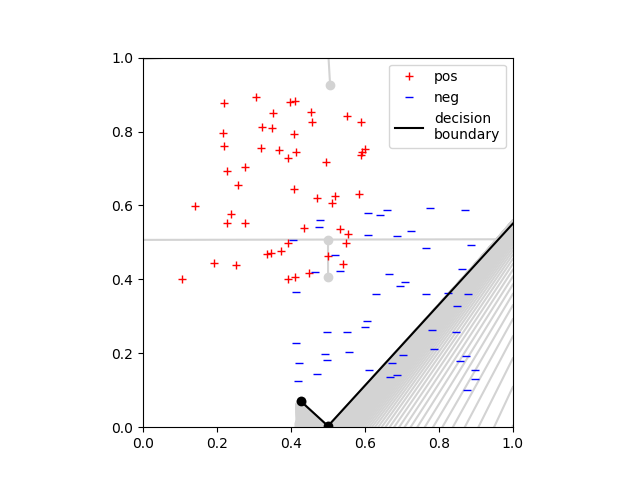
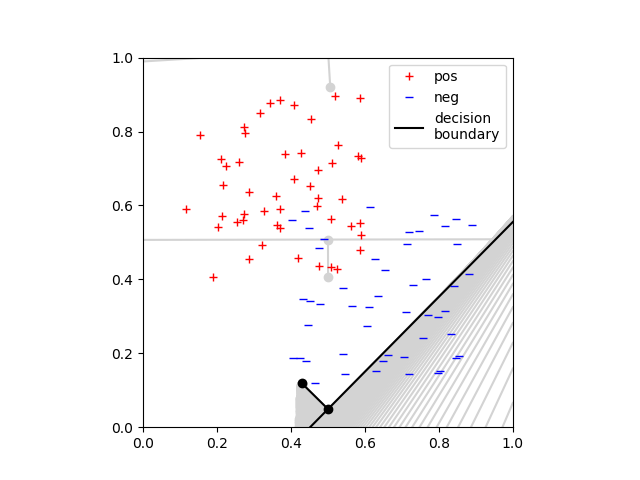
fixing logistic

diff --git a/logisticRegression.py b/logisticRegression.py
@@ -71,11 +71,10 @@ class LogisticRegression:
             # WRITE the required CODE HERE to update the parameters using gradient descent
             # make use of self.loss_grad() function
 
-            res = self.loss_grad(self.w, X, y)
-            loss = self.loss(self.w, X, y)
+            res = self.loss_grad(self.w, X, Y)
+            loss = self.loss(self.w, X, Y)
 
-            new_w = self.w + step * res
-            self.w = new_w
+            self.w = self.w + step * res
 
             if t % 100 == 0:
                 plot_boundary(self.w)
@@ -105,10 +104,10 @@ class LogisticRegression:
 
         # calculate the loss
         for x in range(X.shape[0]):
-            z = np.dot(X, w.T)
+            z = np.dot(X[x,], w.T)
             sigmoid = (1)/(1+ np.e**(-z))
             # print(z)
-            loss += -y[x]*np.log10(sigmoid) - (1-y[x])*np.log(1-sigmoid)
+            loss += -y[x]*np.log10(sigmoid) - (1-y[x])*np.log10(1-sigmoid)
 
         loss = (1/N) * loss
 

diff --git a/linearRegression.py b/linearRegression.py
@@ -49,24 +49,19 @@ class LinearRegression:
                 res = self.loss_grad(self.w, X, y)
                 loss = self.loss(self.w, X, y)
 
-                #converges using step
-                new_w = self.w + step * res
+                # converges using step
+                self.w = self.w + step * res
 
                 # diverges using alpha
                 # new_w = self.w + self.alpha * res
-
-
-                self.w = new_w
-
 
                 # make use of self.loss_grad() function
                 if t%100 == 0:
                     print("Epoch: {} :: loss: {}".format(t, self.loss(self.w, X, y)))
 
         elif self.flag == 'Analytic':
-            pass
-
-            L2_pseudo = np.dot(X.T, X) + 2 * self.alpha * np.eye(X.shape[1])
+            step = 0.001
+            L2_pseudo = np.dot(X.T, X) + 2 * step * np.eye(X.shape[1])
             third = np.linalg.inv(L2_pseudo).dot(X.T).dot(y)
 
 
